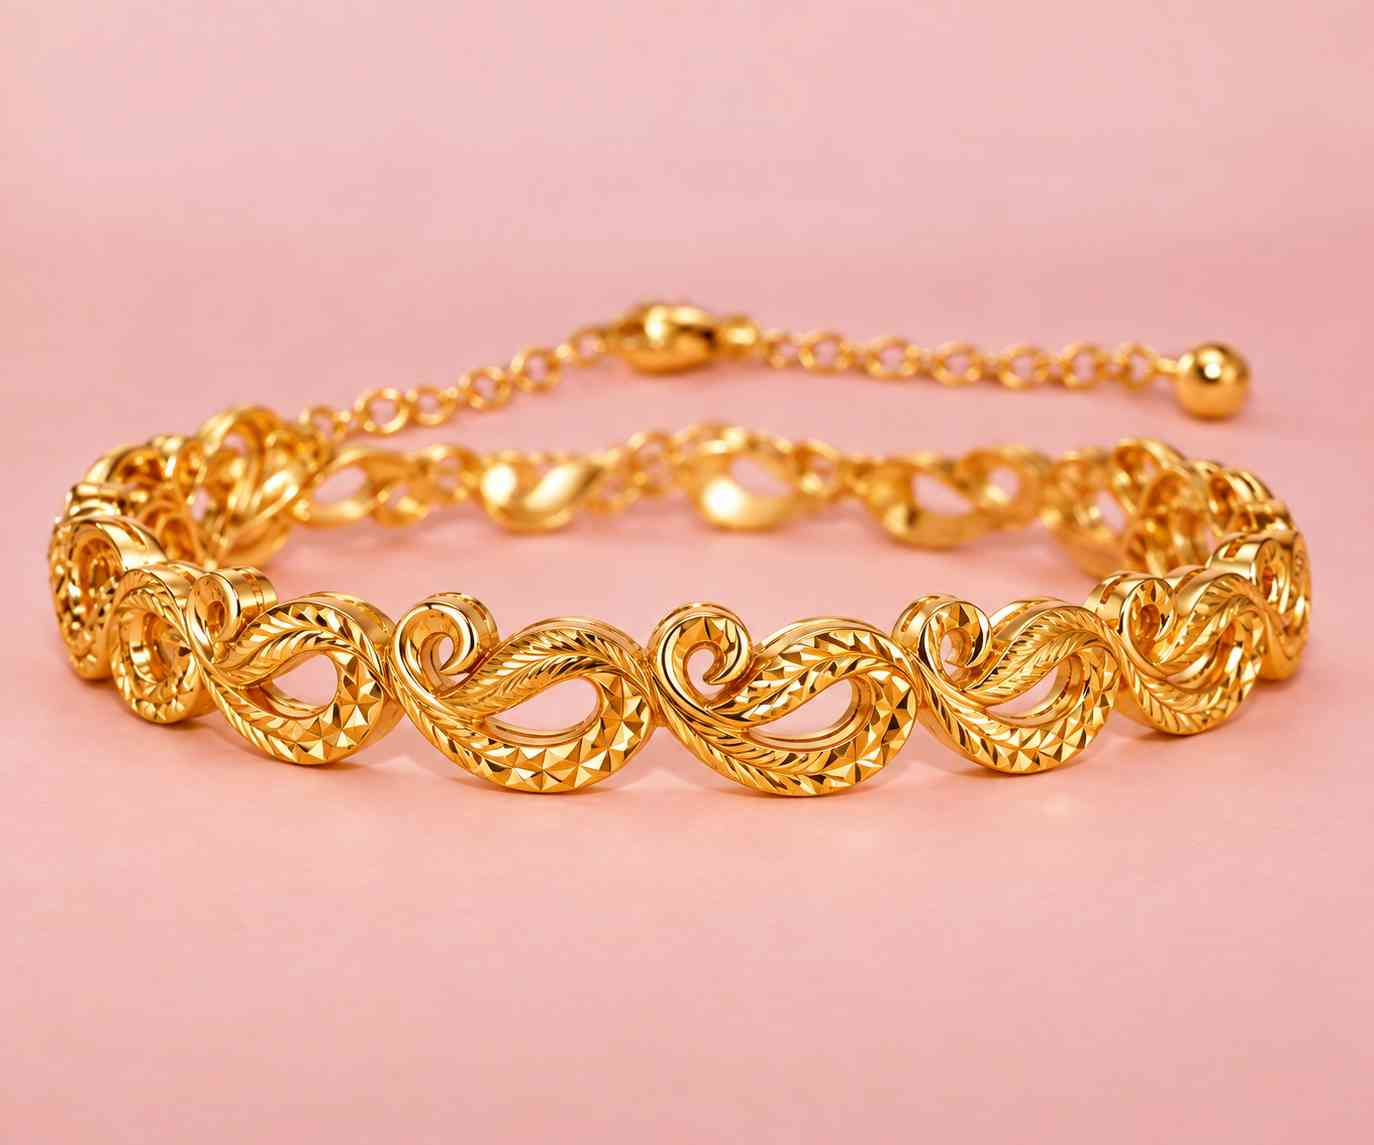
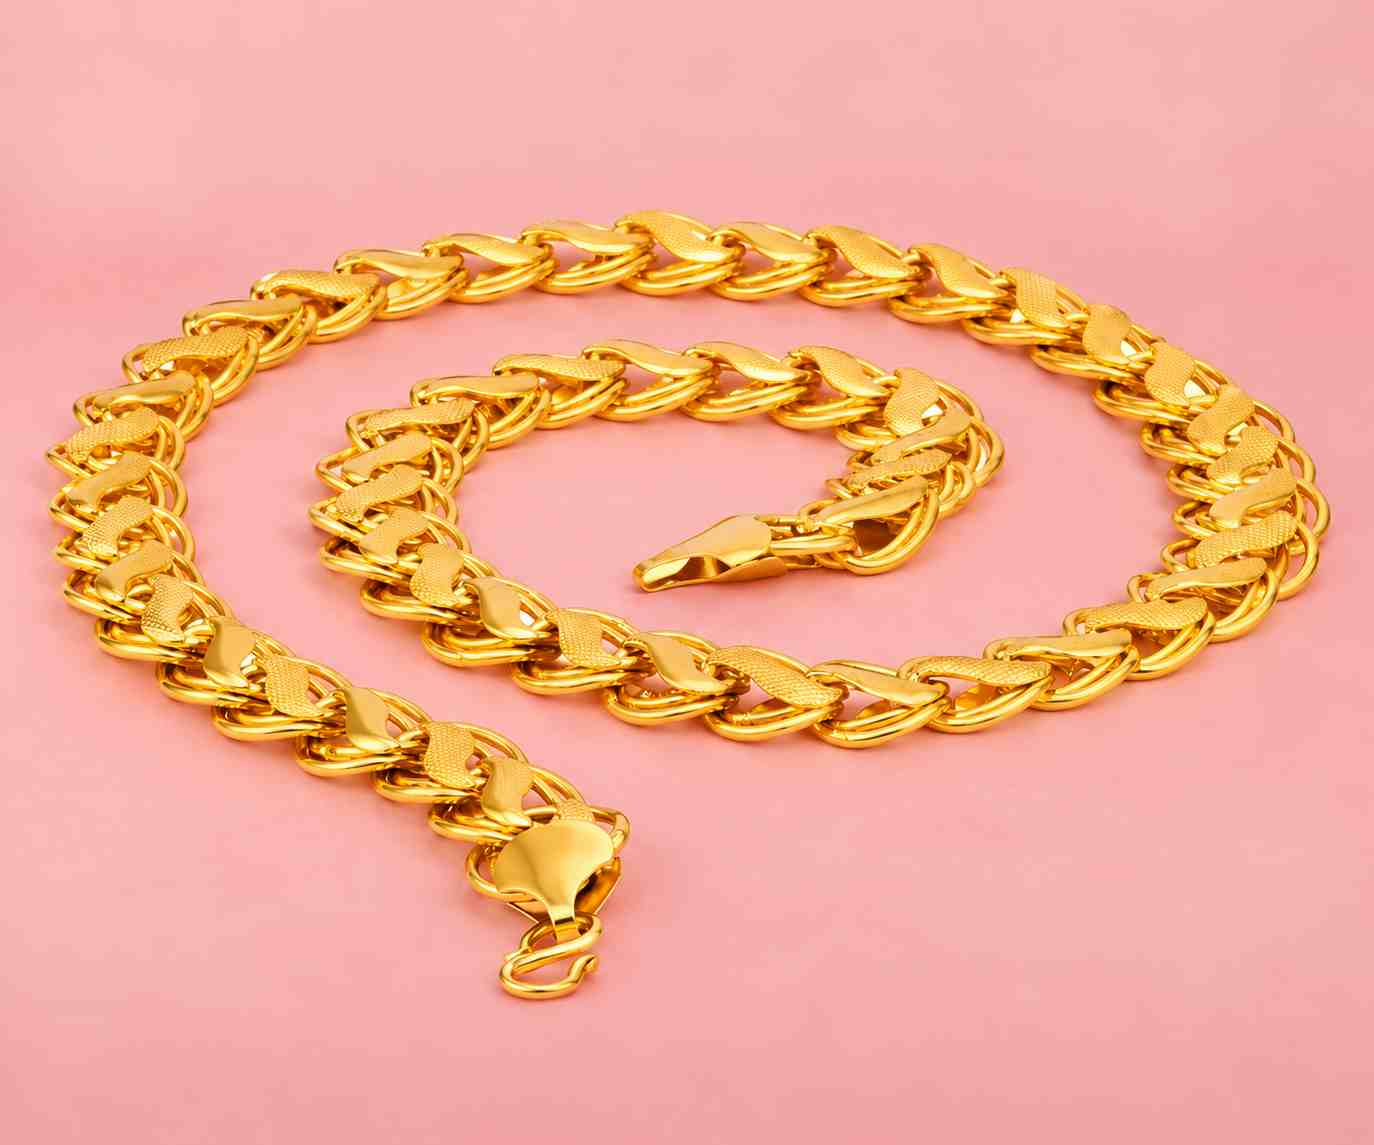
Update project

diff --git a/index.html b/index.html
@@ -843,7 +843,7 @@
                         <div class="contact-item">
                             <p class="contact-item-label">Address</p>
                             <p class="contact-item-value">
-                                Chowk, Sarafa Bazar, Meerut, Uttar Pradesh 250002
+                                Chowk, Sarrafa Bazar, Meerut, Uttar Pradesh 250002
                             </p>
                         </div>
                         <div class="contact-item">
@@ -903,7 +903,7 @@
                         Meerut's legacy of trust and purity, since over 50 years.
                     </p>
                     <div class="footer-contact-info">
-                        <p>Chowk, Sarafa Bazar, Meerut, Uttar Pradesh 250002</p>
+                        <p>Chowk, Sarrafa Bazar, Meerut, Uttar Pradesh 250002</p>
                         <p><a href="tel:+919675121215">+91 9675121215</a></p>
                         <p><a href="tel:+919675121217">+91 9675121217</a></p>
                     </div>
